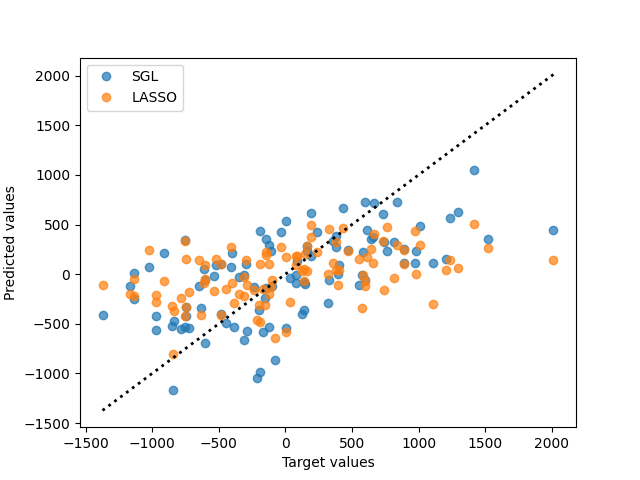
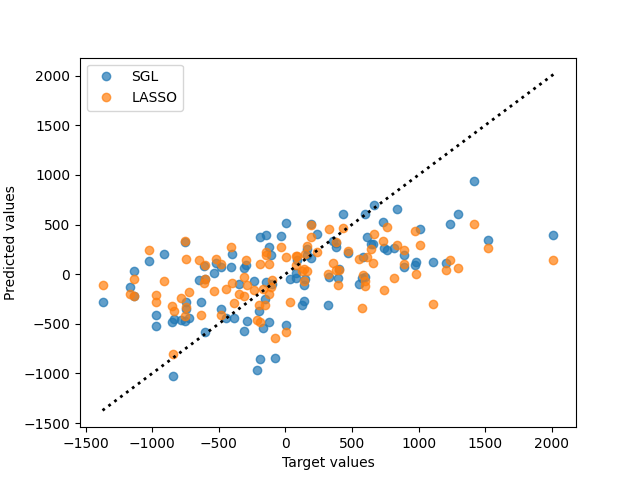
Deploying to gh-pages from  @ 82d1414503261212d46017233c9dbb04750e841c 🚀

diff --git a/searchindex.js b/searchindex.js
@@ -1,1 +1,1 @@
-Search.setIndex({docnames:["api","auto_examples/compare_group_lasso_performance","auto_examples/index","auto_examples/plot_classifier","auto_examples/plot_regressor","auto_examples/sg_execution_times","contributing","faq","getting_help","index","install"],envversion:{"sphinx.domains.c":2,"sphinx.domains.changeset":1,"sphinx.domains.citation":1,"sphinx.domains.cpp":3,"sphinx.domains.index":1,"sphinx.domains.javascript":2,"sphinx.domains.math":2,"sphinx.domains.python":2,"sphinx.domains.rst":2,"sphinx.domains.std":2,"sphinx.ext.intersphinx":1,"sphinx.ext.viewcode":1,sphinx:56},filenames:["api.rst","auto_examples/compare_group_lasso_performance.rst","auto_examples/index.rst","auto_examples/plot_classifier.rst","auto_examples/plot_regressor.rst","auto_examples/sg_execution_times.rst","contributing.rst","faq.rst","getting_help.rst","index.rst","install.rst"],objects:{"groupyr.datasets":{make_group_classification:[0,1,1,""],make_group_regression:[0,1,1,""]},groupyr:{LogisticSGL:[0,0,1,""],LogisticSGLCV:[0,0,1,""],SGL:[0,0,1,""],SGLCV:[0,0,1,""]}},objnames:{"0":["py","class","Python class"],"1":["py","function","Python function"]},objtypes:{"0":"py:class","1":"py:function"},terms:{"000":[1,5],"001":0,"0x7f47cd2a4250":4,"100":[0,1,3],"1000":[0,1],"10618600":0,"108":9,"1080":0,"122":9,"1283339":9,"150":1,"170":4,"1729":[3,4],"194":4,"1rf1mh121868":9,"200":[1,3],"2003":0,"201":3,"2011":9,"2012":0,"2013":9,"2020":9,"203":3,"205":3,"208":3,"209":3,"211":3,"212":3,"214":3,"217":3,"231":[0,9],"240":3,"243":3,"244":3,"245":[0,3,9],"246":3,"250":1,"251":3,"252":3,"256":3,"257":3,"259":3,"261":3,"262":3,"264":3,"267":3,"271":3,"272":3,"274":3,"276":3,"277":3,"279":3,"2825":9,"2830":9,"297":4,"325":4,"352":4,"388":5,"400":[1,4],"446":4,"459":4,"477":4,"500":4,"5281":9,"547":4,"576":4,"600":4,"601":[3,5],"610":4,"681250":0,"683":4,"786":[4,5],"boolean":0,"case":0,"class":0,"default":[0,4,9],"float":0,"function":0,"import":[1,2,3,4],"int":[0,1],"new":[7,10],"public":9,"return":0,"true":[0,1,3,4],"try":[0,7],"while":0,And:9,For:[0,9],The:[0,3,4,7,10],There:7,These:[0,2,7],Use:0,__init__:0,_split:4,about:[0,7,8],abov:[9,10],accept:9,accuracy_scor:0,actual:0,adapt:0,add:0,added:0,addit:[1,9],address:7,aforement:7,after:0,alfr:9,algorithm:0,align:0,all:[0,2,8,9,10],allow:[7,8],along:[0,9],alpha:[0,1,4,9],alpha_:0,alpha_max:0,alpha_min:0,alphas_:0,also:[0,6,7,9],altern:[0,10],amount:0,ani:[0,8],anoth:7,append:1,appli:0,appreci:9,approach:9,appropri:[0,6],arang:3,arbitrari:0,ariel:9,around:0,arrai:[0,1,9],arriv:9,ask:8,assign:[0,9],associ:9,attempt:9,attribut:0,auto:1,auto_exampl:5,auto_examples_jupyt:2,auto_examples_python:2,automat:[0,9],balanc:0,base:[7,9],bay:[0,4,9],bayes_optimizer_:0,bayesian:0,bayessearchcv:[0,7],bbox_inch:1,becaus:[0,2,9],befor:[0,8],behavior:9,belong:[0,9],benchmark:0,best:[0,3,9],beta:9,better:7,betti:9,between:[0,9],bia:0,bibtex:9,black:[3,4],bool:0,borrow:9,both:[7,9],brain:9,brows:8,bug:8,built:[0,7],buitnick:9,calcul:0,call:0,callabl:0,can:[0,2,8,9,10],canon:0,capabl:0,center:0,character:9,choic:0,chosen:[0,2],chosen_features_:3,citat:9,class_sep:0,classes_:0,classif:0,classifi:0,click:[1,3,4],clone:10,close:0,cluster:0,code:[1,2,3,4,7,10],coef:[0,1,3,4],coef_:[0,3],coeffici:[0,3,9],collabor:6,color:4,column:9,com:10,combin:[0,9],compar:[2,3,4,7],compare_group_lasso_perform:[1,5],comparison:[2,5],compat:[0,9],compliant:0,complic:9,compos:0,composit:9,compris:0,compromis:0,comput:[0,9],concaten:1,consequ:0,conserv:0,consid:0,constant:0,construct:0,contain:0,context:0,contigu:0,contrast:0,contribut:10,control:9,converg:0,copi:0,copt:[0,9,10],copy_x:0,cost:0,covari:[0,2,7,9],cpu:0,creat:[0,7],credit:6,criterion:0,cross:[7,9],current:9,data:[0,2,4,8,9],dataset:[1,3,4],debug:0,decis:0,defin:[1,9],demonstr:2,depend:0,descent:0,describ:9,design:[0,7,9],detail:[6,9],determin:[0,9],develop:[6,9],deviat:0,did:7,differ:[0,9],difficult:9,dimens:0,dimension:[0,9],distribut:0,divid:0,document:[0,7],doe:[0,7],doi:[0,9],done:9,download:[1,2,3,4],drawn:0,duplic:0,dure:[0,9],each:0,easier:0,ecml:9,ecosystem:0,effect:[0,4],effective_rank:0,effici:[0,9],either:[0,9,10],elasticnet:[0,9],elasticnetcv:9,element:0,ell:9,els:0,encod:0,encourag:[0,7],entri:[0,9],enumer:1,eps:[0,3],equal:0,error:[0,4],escienc:9,estim:[2,3,4,7,9],ethic:8,evalu:[0,9],even:9,examin:8,exampl:[0,1,3,4,10],exce:0,exchang:0,execut:[5,7],exhaust:9,exist:8,expect:0,experi:[0,9],explain:0,face:8,facilit:9,factor:0,fals:[0,4],familiar:[0,9],far:9,faster:7,featur:[0,1,2,3,9,10],features_per_group:0,feedback:7,fewer:[0,9],fig:1,figsiz:1,file:[5,7],find:[0,7,9],fit:[0,1,3,4,9],fit_intercept:0,fix:0,flag:0,flip:9,flip_i:0,fold:0,fontsiz:1,format:4,formula:0,forth:7,found:7,foundat:9,frac:9,fraction:0,friedman:[0,9],frobenius_lipschitz:1,from:[0,1,3,4,6,9,10],full:[1,3,4,9],fulli:0,further:[0,10],futur:7,futurewarn:4,galleri:[1,2,3,4,9,10],gaussian:0,gener:[1,2,3,4],get:[7,9],giant:0,git:10,github:[8,10],give:[0,9],gl_group:1,gl_time:1,global:[1,9],glossari:0,good:[0,7],gordon:9,gpr:[1,4],gpr_time:1,gradient:0,grant:9,graphic:[0,9],green:3,grid:[0,7,9],gridsearchcv:9,ground:[2,3,4],group:[2,5,7],group_lasso:[1,7],group_length:0,group_reg:1,group_siz:1,grouplasso:1,groupyr:[0,2,3,4,5,7,10],groupyr_speedup:1,grp:1,guess:9,guid:[0,6,9,10],guidelin:10,guyon:0,happen:0,happi:7,harder:0,has:[0,4,7],hasti:[0,9],hat:9,have:[0,7],heavili:9,help:7,here:[0,1,3,4,6,7,8,9],high:[4,9],highlight:3,hope:7,hostedtoolcach:4,hot:0,how:[2,7,8,10],howev:[7,9],http:10,hyper:0,hypercub:0,hyperparamet:[0,9],idx:[1,3],ignor:0,imag:9,implement:9,impor:3,includ:[0,7,10],include_solver_trac:0,increas:0,independ:0,index:3,indic:[0,3,9],infer:0,inform:[0,3,7,8,9,10],initi:[0,9],input:0,instal:[1,8],instanc:0,instanti:9,instead:0,institut:9,instruct:9,integ:0,intend:[0,9],intercept:0,intercept_:0,interdepend:0,introduc:0,introductori:9,ipynb:[1,3,4],isn:7,issu:[7,8],iter:0,its:[4,9,10],jerom:0,joblib:0,join:1,journal:[0,9],jupyt:[1,2,3,4],just:0,kei:9,keyword:9,kfold:[0,4],know:[2,8],known:0,l1_ratio:[0,1,3,4,9],l1_ratio_:0,l1_reg:1,label:[0,3,4],lambda:9,languag:9,larger:0,lasso:[2,5,7],lassocv:4,last:0,latest:9,learn:[0,7,9,10],leav:[4,7],legend:[3,4],len:[0,1],length:[0,9],less:10,let:8,level:4,lib:4,librari:[7,9],licens:[6,9],lightn:7,like:[0,10],linear:[0,9],linear_model:4,linearli:0,list:[0,7,9],loc:3,locat:0,log:0,logist:[0,2,5],logistic_sgl_path:0,logisticregress:9,logisticregressioncv:9,logisticsgl:0,logisticsglcv:[0,3],logo:9,look:[0,9],love:6,machin:9,madelon:0,mai:[0,10],maintain:7,make:[0,8,9],make_blob:0,make_classif:0,make_group_classif:[0,3],make_group_regress:[0,1,4],make_multilabel_classif:0,make_regress:0,mani:7,marker:[3,4],mathbf:9,matplotlib:[1,3,4],matrix:[0,9],max:4,max_alpha:0,max_it:[0,1],max_val:4,maximum:0,mean:[0,6],mean_squared_error:4,mec:3,membership:0,method:[0,7,10],metric:[0,4],mew:3,mfc:3,might:8,mild:0,min:4,min_:9,min_val:4,mine:9,minimum:0,minumum:0,minut:[1,3,4],mixtur:9,model:[0,1,2,3,4,7,9],model_select:[0,1,4],moor:9,more:[0,6,9],most:7,multilabel:0,multipl:0,multipli:0,must:9,n_alpha:[0,3],n_bayes_it:[0,4],n_bayes_point:0,n_class:[0,3],n_clusters_per_class:0,n_featur:[0,1,3],n_features_per_group:[0,1,3,4],n_fold:0,n_group:[0,1,3,4],n_inform:0,n_informative_group:[0,1,3,4],n_informative_per_group:[0,1,3,4],n_iter:1,n_iter_:0,n_job:0,n_l1_ratio:0,n_redund:0,n_redundant_per_group:[0,3],n_repeat:0,n_repeated_per_group:[0,3],n_sampl:[0,1,3,4],n_target:0,ndarrai:0,necessari:9,need:[1,8,9],next:10,nimh:9,nine:0,nip:0,noah:0,nois:[0,1,4],non:[0,3],none:[0,3,4],norm:0,normal:[0,9],note:0,notebook:[1,2,3,4],nsgl:4,number:[0,1,9],numpi:[0,1,3,4,9,10],object:[0,4],off:0,offer:9,often:8,one:[0,7,9],onli:[0,9],open:6,oper:8,opt:4,optim:[0,7,9,10],option:0,order:0,other:[0,7],our:[6,7,8,9],out:[0,3,4,7],outperform:9,output:0,outsid:6,over:0,overal:0,overlap:0,overwritten:0,own:7,packag:[1,4,7],page:7,parallel:[0,9],parallel_backend:0,paramet:[0,9],partit:0,pass:0,path:[0,9],pdf:1,pedregosa:9,penal:[0,2,7,9],penalti:[0,7,9],per:0,perform:[2,4,5],pertin:8,pgd:0,pip:[1,10],pkdd:9,place:0,pleas:[0,7,8,9],plot:[1,3,4],plot_classifi:[3,5],plot_regressor:[4,5],plt:[1,3,4],point:0,polytop:0,posit:0,possibl:0,post:8,pre:9,predefin:9,predict:[0,4,9],predictor:0,preprocess:0,previou:[0,9],previous:9,primari:0,print:[3,4],prior:0,problem:[0,1,2,7,9],procedur:8,processor:0,produc:0,project:[6,9],promot:9,proport:0,provid:[0,8,9],proxim:0,put:0,pypi:10,pyplot:[1,3,4],python3:4,python:[1,2,3,4,7,10],qualiti:0,r2_score:4,rais:4,randal:9,random:[0,9],random_st:[0,1,3,4],randomli:0,randomst:0,ratio:1,reach:0,recommend:10,redund:0,regress:[0,2,3,7,9],regressor:0,regular:[0,9],relat:9,relationship:9,reli:9,remain:0,repeat:0,repositori:[8,10],reproduc:0,requir:10,research:[6,7,9],reshap:1,result:[0,4],reus:0,richford:10,rmse:4,robert:0,rokem:9,root:0,routin:0,rudimentari:[2,5],run:[0,1,3,4,8],runtim:0,same:[0,9],sampl:[0,8],satisfi:9,savefig:1,scale:[0,3],scale_l2_bi:0,scale_reg:1,scientif:9,scikit:[0,9,10],scipi:10,scope:7,score:0,scorer:0,scoring_path_:0,script:[1,3,4],search:[0,7,9],second:[1,3,4],see:[0,6,7,9,10],seed:0,select:[0,9],send:8,sequenti:[7,9],set:[0,4,9],set_titl:1,set_xlabel:1,set_ylabel:1,sgl:[0,1,4,9],sgl_path:0,sglcv:[0,4],shape:[0,3],share:[8,9],shift:0,should:[0,4,9],show:3,shuffl:[0,1,4],side:0,signal:[2,5],signatur:0,silhouett:9,similar:7,simon:[0,9],simplifi:0,simul:[3,4],sinc:4,singular:0,site:4,size:[0,1],sklearn:[0,1,4],skopt:0,sloan:9,small:8,smbo:9,softwar:[6,8,9],solut:[0,9],solv:[0,2],solver:[0,9],some:[0,7],sourc:[0,1,2,3,4,6,10],spars:[2,5],sparsiti:[0,4,9],specifi:[0,7,9],speedup:1,sphinx:[1,2,3,4],split:0,splitter:0,spread:0,sqrt:[4,9],squar:0,stabl:10,stack:0,standard:0,standardscal:0,start:[0,9],statist:[0,7,9],std:0,stop:0,strategi:[0,9],stratifiedkfold:0,strength:[0,9],string:0,strong:0,studi:8,submatrix:9,subplot:1,subspac:0,subtract:0,suit:7,sum:0,sum_:9,supervis:9,support:9,suppress:0,suppress_solver_warn:0,supress_warn:1,sure:8,syntact:9,synthet:[0,2],system:8,target:[4,9],task:0,techniqu:0,templat:9,term:0,test:[0,4],test_siz:[1,4],than:[0,9],thei:0,them:6,therefor:9,thi:[0,1,4,6,8,9,10],three:0,through:9,tibshirani:[0,9],tight:1,time:[0,1,3,4,7],timeit:1,titl:3,tol:[0,1,3],toler:0,tool:7,total:[0,1,3,4,5,9],tqdm:[1,10],trade:0,train:[0,4],train_test_split:[1,4],transform:0,trevor:0,trivial:0,truth:[2,3,4],tune:0,tuning_strategi:[0,4,9],type:0,uniformli:0,univers:9,unless:0,unrel:0,unshuffl:0,unsupervis:7,use:[0,2,6,9,10],used:[0,2,9],useful:[0,7],useful_indic:[0,3],useless:0,user:[0,7,9,10],uses:0,using:[0,1,7,9,10],usual:9,valid:[7,9],valu:[0,4,9],vari:0,variabl:[0,9],variant:0,variou:[0,1],vector:[0,9],verbos:0,version:[0,8],vertic:0,via:0,vol:0,wai:10,want:[0,7],warm:[0,9],warm_start:0,warn:0,washington:9,weight:0,welcom:6,well:[7,8,9],what:8,when:0,where:[0,3,9],whether:0,which:[0,9],whose:0,why:7,wise:[0,9],wish:0,within:0,without:9,work:7,workflow:9,workshop:9,would:[0,7,9,10],written:6,x64:4,x_test:[1,4],x_train:[1,4],xlabel:[3,4],y_test:[1,4],y_train:[1,4],yield:[0,9],ylabel:[3,4],you:[0,1,4,6,7,8,9,10],your:[7,8],zenodo:9,zero:[0,3],zip:2},titles:["API Reference","Rudimentary performance comparison of groupyr and group-lasso","Examples","Logistic Sparse Group Lasso for grouped sparse signals","Sparse Group Lasso for grouped sparse signals","Computation times","Contributing to <em>groupyr</em>","Frequently Asked Questions","Getting help using <em>groupyr</em>","<em>Groupyr</em>: Sparse Group Lasso in Python","Installation"],titleterms:{The:9,acknowledg:9,api:[0,9],ask:7,cite:9,comparison:1,comput:5,contribut:6,cross:0,dataset:0,depend:10,develop:10,document:9,estim:0,exampl:[2,9],frequent:7,gener:0,get:8,group:[0,1,3,4,9],groupyr:[1,6,8,9],help:8,instal:[9,10],lasso:[0,1,3,4,9],logist:3,perform:1,python:9,question:7,refer:[0,9],releas:10,rudimentari:1,signal:[3,4],spars:[0,3,4,9],time:5,usag:9,using:8,valid:0,version:10}})
+Search.setIndex({docnames:["api","auto_examples/compare_group_lasso_performance","auto_examples/index","auto_examples/plot_classifier","auto_examples/plot_regressor","auto_examples/sg_execution_times","contributing","faq","getting_help","index","install"],envversion:{"sphinx.domains.c":2,"sphinx.domains.changeset":1,"sphinx.domains.citation":1,"sphinx.domains.cpp":3,"sphinx.domains.index":1,"sphinx.domains.javascript":2,"sphinx.domains.math":2,"sphinx.domains.python":2,"sphinx.domains.rst":2,"sphinx.domains.std":2,"sphinx.ext.intersphinx":1,"sphinx.ext.viewcode":1,sphinx:56},filenames:["api.rst","auto_examples/compare_group_lasso_performance.rst","auto_examples/index.rst","auto_examples/plot_classifier.rst","auto_examples/plot_regressor.rst","auto_examples/sg_execution_times.rst","contributing.rst","faq.rst","getting_help.rst","index.rst","install.rst"],objects:{"groupyr.datasets":{make_group_classification:[0,1,1,""],make_group_regression:[0,1,1,""]},groupyr:{LogisticSGL:[0,0,1,""],LogisticSGLCV:[0,0,1,""],SGL:[0,0,1,""],SGLCV:[0,0,1,""]}},objnames:{"0":["py","class","Python class"],"1":["py","function","Python function"]},objtypes:{"0":"py:class","1":"py:function"},terms:{"000":[1,5],"001":0,"0x7fd2723346d8":4,"100":[0,1,3],"1000":[0,1],"10618600":0,"108":9,"1080":0,"122":9,"1283339":9,"150":1,"170":4,"1729":[3,4],"194":4,"1rf1mh121868":9,"200":[1,3],"2003":0,"201":3,"2011":9,"2012":0,"2013":9,"2020":9,"203":3,"205":3,"208":3,"209":3,"211":3,"212":3,"214":3,"217":3,"231":[0,9],"240":3,"243":3,"244":3,"245":[0,3,9],"246":3,"250":1,"251":3,"252":3,"256":3,"257":3,"259":3,"261":3,"262":3,"264":3,"267":3,"271":3,"272":3,"274":3,"276":3,"277":3,"279":3,"2825":9,"2830":9,"297":4,"320":5,"331":4,"400":[1,4],"409":4,"420":[3,5],"446":4,"477":4,"500":4,"5281":9,"542":4,"556":4,"600":4,"610":4,"629":4,"681250":0,"683":4,"900":[4,5],"boolean":0,"case":0,"class":0,"default":[0,4,9],"float":0,"function":0,"import":[1,2,3,4],"int":[0,1],"new":[7,10],"public":9,"return":0,"true":[0,1,3,4],"try":[0,7],"while":0,And:9,For:[0,9],The:[0,3,4,7,10],There:7,These:[0,2,7],Use:0,__init__:0,_split:4,about:[0,7,8],abov:[9,10],accept:9,accuracy_scor:0,actual:0,adapt:0,add:0,added:0,addit:[1,9],address:7,aforement:7,after:0,alfr:9,algorithm:0,align:0,all:[0,2,8,9,10],allow:[7,8],along:[0,9],alpha:[0,1,4,9],alpha_:0,alpha_max:0,alpha_min:0,alphas_:0,also:[0,6,7,9],altern:[0,10],amount:0,ani:[0,8],anoth:7,append:1,appli:0,appreci:9,approach:9,appropri:[0,6],arang:3,arbitrari:0,ariel:9,around:0,arrai:[0,1,9],arriv:9,ask:8,assign:[0,9],associ:9,attempt:9,attribut:0,auto:1,auto_exampl:5,auto_examples_jupyt:2,auto_examples_python:2,automat:[0,9],balanc:0,base:[7,9],bay:[0,4,9],bayes_optimizer_:0,bayesian:0,bayessearchcv:[0,7],bbox_inch:1,becaus:[0,2,9],befor:[0,8],behavior:9,belong:[0,9],benchmark:0,best:[0,3,9],beta:9,better:7,betti:9,between:[0,9],bia:0,bibtex:9,black:[3,4],bool:0,borrow:9,both:[7,9],brain:9,brows:8,bug:8,built:[0,7],buitnick:9,calcul:0,call:0,callabl:0,can:[0,2,8,9,10],canon:0,capabl:0,center:0,character:9,choic:0,chosen:[0,2],chosen_features_:3,citat:9,class_sep:0,classes_:0,classif:0,classifi:0,click:[1,3,4],clone:10,close:0,cluster:0,code:[1,2,3,4,7,10],coef:[0,1,3,4],coef_:[0,3],coeffici:[0,3,9],collabor:6,color:4,column:9,com:10,combin:[0,9],compar:[2,3,4,7],compare_group_lasso_perform:[1,5],comparison:[2,5],compat:[0,9],compliant:0,complic:9,compos:0,composit:9,compris:0,compromis:0,comput:[0,9],concaten:1,consequ:0,conserv:0,consid:0,constant:0,construct:0,contain:0,context:0,contigu:0,contrast:0,contribut:10,control:9,converg:0,copi:0,copt:[0,9,10],copy_x:0,cost:0,covari:[0,2,7,9],cpu:0,creat:[0,7],credit:6,criterion:0,cross:[7,9],current:9,data:[0,2,4,8,9],dataset:[1,3,4],debug:0,decis:0,defin:[1,9],demonstr:2,depend:0,descent:0,describ:9,design:[0,7,9],detail:[6,9],determin:[0,9],develop:[6,9],deviat:0,did:7,differ:[0,9],difficult:9,dimens:0,dimension:[0,9],distribut:0,divid:0,document:[0,7],doe:[0,7],doi:[0,9],done:9,download:[1,2,3,4],drawn:0,duplic:0,dure:[0,9],each:0,easier:0,ecml:9,ecosystem:0,effect:[0,4],effective_rank:0,effici:[0,9],either:[0,9,10],elasticnet:[0,9],elasticnetcv:9,element:0,ell:9,els:0,encod:0,encourag:[0,7],entri:[0,9],enumer:1,eps:[0,3],equal:0,error:[0,4],escienc:9,estim:[2,3,4,7,9],ethic:8,evalu:[0,9],even:9,examin:8,exampl:[0,1,3,4,10],exce:0,exchang:0,execut:[5,7],exhaust:9,exist:8,expect:0,experi:[0,9],explain:0,face:8,facilit:9,factor:0,fals:[0,4],familiar:[0,9],far:9,faster:7,featur:[0,1,2,3,9,10],features_per_group:0,feedback:7,fewer:[0,9],fig:1,figsiz:1,file:[5,7],find:[0,7,9],fit:[0,1,3,4,9],fit_intercept:0,fix:0,flag:0,flip:9,flip_i:0,fold:0,fontsiz:1,format:4,formula:0,forth:7,found:7,foundat:9,frac:9,fraction:0,friedman:[0,9],frobenius_lipschitz:1,from:[0,1,3,4,6,9,10],full:[1,3,4,9],fulli:0,further:[0,10],futur:7,futurewarn:4,galleri:[1,2,3,4,9,10],gaussian:0,gener:[1,2,3,4],get:[7,9],giant:0,git:10,github:[8,10],give:[0,9],gl_group:1,gl_time:1,global:[1,9],glossari:0,good:[0,7],gordon:9,gpr:[1,4],gpr_time:1,gradient:0,grant:9,graphic:[0,9],green:3,grid:[0,7,9],gridsearchcv:9,ground:[2,3,4],group:[2,5,7],group_lasso:[1,7],group_length:0,group_reg:1,group_siz:1,grouplasso:1,groupyr:[0,2,3,4,5,7,10],groupyr_speedup:1,grp:1,guess:9,guid:[0,6,9,10],guidelin:10,guyon:0,happen:0,happi:7,harder:0,has:[0,4,7],hasti:[0,9],hat:9,have:[0,7],heavili:9,help:7,here:[0,1,3,4,6,7,8,9],high:[4,9],highlight:3,hope:7,hostedtoolcach:4,hot:0,how:[2,7,8,10],howev:[7,9],http:10,hyper:0,hypercub:0,hyperparamet:[0,9],idx:[1,3],ignor:0,imag:9,implement:9,impor:3,includ:[0,7,10],include_solver_trac:0,increas:0,independ:0,index:3,indic:[0,3,9],infer:0,inform:[0,3,7,8,9,10],initi:[0,9],input:0,instal:[1,8],instanc:0,instanti:9,instead:0,institut:9,instruct:9,integ:0,intend:[0,9],intercept:0,intercept_:0,interdepend:0,introduc:0,introductori:9,ipynb:[1,3,4],isn:7,issu:[7,8],iter:0,its:[4,9,10],jerom:0,joblib:0,join:1,journal:[0,9],jupyt:[1,2,3,4],just:0,kei:9,keyword:9,kfold:[0,4],know:[2,8],known:0,l1_ratio:[0,1,3,4,9],l1_ratio_:0,l1_reg:1,label:[0,3,4],lambda:9,languag:9,larger:0,lasso:[2,5,7],lassocv:4,last:0,latest:9,learn:[0,7,9,10],leav:[4,7],legend:[3,4],len:[0,1],length:[0,9],less:10,let:8,level:4,lib:4,librari:[7,9],licens:[6,9],lightn:7,like:[0,10],linear:[0,9],linear_model:4,linearli:0,list:[0,7,9],loc:3,locat:0,log:0,logist:[0,2,5],logistic_sgl_path:0,logisticregress:9,logisticregressioncv:9,logisticsgl:0,logisticsglcv:[0,3],logo:9,look:[0,9],love:6,machin:9,madelon:0,mai:[0,10],maintain:7,make:[0,8,9],make_blob:0,make_classif:0,make_group_classif:[0,3],make_group_regress:[0,1,4],make_multilabel_classif:0,make_regress:0,mani:7,marker:[3,4],mathbf:9,matplotlib:[1,3,4],matrix:[0,9],max:4,max_alpha:0,max_it:[0,1],max_val:4,maximum:0,mean:[0,6],mean_squared_error:4,mec:3,membership:0,method:[0,7,10],metric:[0,4],mew:3,mfc:3,might:8,mild:0,min:4,min_:9,min_val:4,mine:9,minimum:0,minumum:0,minut:[1,3,4],mixtur:9,model:[0,1,2,3,4,7,9],model_select:[0,1,4],moor:9,more:[0,6,9],most:7,multilabel:0,multipl:0,multipli:0,must:9,n_alpha:[0,3],n_bayes_it:[0,4],n_bayes_point:0,n_class:[0,3],n_clusters_per_class:0,n_featur:[0,1,3],n_features_per_group:[0,1,3,4],n_fold:0,n_group:[0,1,3,4],n_inform:0,n_informative_group:[0,1,3,4],n_informative_per_group:[0,1,3,4],n_iter:1,n_iter_:0,n_job:0,n_l1_ratio:0,n_redund:0,n_redundant_per_group:[0,3],n_repeat:0,n_repeated_per_group:[0,3],n_sampl:[0,1,3,4],n_target:0,ndarrai:0,necessari:9,need:[1,8,9],next:10,nimh:9,nine:0,nip:0,noah:0,nois:[0,1,4],non:[0,3],none:[0,3,4],norm:0,normal:[0,9],note:0,notebook:[1,2,3,4],nsgl:4,number:[0,1,9],numpi:[0,1,3,4,9,10],object:[0,4],off:0,offer:9,often:8,one:[0,7,9],onli:[0,9],open:6,oper:8,opt:4,optim:[0,7,9,10],option:0,order:0,other:[0,7],our:[6,7,8,9],out:[0,3,4,7],outperform:9,output:0,outsid:6,over:0,overal:0,overlap:0,overwritten:0,own:7,packag:[1,4,7],page:7,parallel:[0,9],parallel_backend:0,paramet:[0,9],partit:0,pass:0,path:[0,9],pdf:1,pedregosa:9,penal:[0,2,7,9],penalti:[0,7,9],per:0,perform:[2,4,5],pertin:8,pgd:0,pip:[1,10],pkdd:9,place:0,pleas:[0,7,8,9],plot:[1,3,4],plot_classifi:[3,5],plot_regressor:[4,5],plt:[1,3,4],point:0,polytop:0,posit:0,possibl:0,post:8,pre:9,predefin:9,predict:[0,4,9],predictor:0,preprocess:0,previou:[0,9],previous:9,primari:0,print:[3,4],prior:0,problem:[0,1,2,7,9],procedur:8,processor:0,produc:0,project:[6,9],promot:9,proport:0,provid:[0,8,9],proxim:0,put:0,pypi:10,pyplot:[1,3,4],python3:4,python:[1,2,3,4,7,10],qualiti:0,r2_score:4,rais:4,randal:9,random:[0,9],random_st:[0,1,3,4],randomli:0,randomst:0,ratio:1,reach:0,recommend:10,redund:0,regress:[0,2,3,7,9],regressor:0,regular:[0,9],relat:9,relationship:9,reli:9,remain:0,repeat:0,repositori:[8,10],reproduc:0,requir:10,research:[6,7,9],reshap:1,result:[0,4],reus:0,richford:10,rmse:4,robert:0,rokem:9,root:0,routin:0,rudimentari:[2,5],run:[0,1,3,4,8],runtim:0,same:[0,9],sampl:[0,8],satisfi:9,savefig:1,scale:[0,3],scale_l2_bi:0,scale_reg:1,scientif:9,scikit:[0,9,10],scipi:10,scope:7,score:0,scorer:0,scoring_path_:0,script:[1,3,4],search:[0,7,9],second:[1,3,4],see:[0,6,7,9,10],seed:0,select:[0,9],send:8,sequenti:[7,9],set:[0,4,9],set_titl:1,set_xlabel:1,set_ylabel:1,sgl:[0,1,4,9],sgl_path:0,sglcv:[0,4],shape:[0,3],share:[8,9],shift:0,should:[0,4,9],show:3,shuffl:[0,1,4],side:0,signal:[2,5],signatur:0,silhouett:9,similar:7,simon:[0,9],simplifi:0,simul:[3,4],sinc:4,singular:0,site:4,size:[0,1],sklearn:[0,1,4],skopt:0,sloan:9,small:8,smbo:9,softwar:[6,8,9],solut:[0,9],solv:[0,2],solver:[0,9],some:[0,7],sourc:[0,1,2,3,4,6,10],spars:[2,5],sparsiti:[0,4,9],specifi:[0,7,9],speedup:1,sphinx:[1,2,3,4],split:0,splitter:0,spread:0,sqrt:[4,9],squar:0,stabl:10,stack:0,standard:0,standardscal:0,start:[0,9],statist:[0,7,9],std:0,stop:0,strategi:[0,9],stratifiedkfold:0,strength:[0,9],string:0,strong:0,studi:8,submatrix:9,subplot:1,subspac:0,subtract:0,suit:7,sum:0,sum_:9,supervis:9,support:9,suppress:0,suppress_solver_warn:0,supress_warn:1,sure:8,syntact:9,synthet:[0,2],system:8,target:[4,9],task:0,techniqu:0,templat:9,term:0,test:[0,4],test_siz:[1,4],than:[0,9],thei:0,them:6,therefor:9,thi:[0,1,4,6,8,9,10],three:0,through:9,tibshirani:[0,9],tight:1,time:[0,1,3,4,7],timeit:1,titl:3,tol:[0,1,3],toler:0,tool:7,total:[0,1,3,4,5,9],tqdm:[1,10],trade:0,train:[0,4],train_test_split:[1,4],transform:0,trevor:0,trivial:0,truth:[2,3,4],tune:0,tuning_strategi:[0,4,9],type:0,uniformli:0,univers:9,unless:0,unrel:0,unshuffl:0,unsupervis:7,use:[0,2,6,9,10],used:[0,2,9],useful:[0,7],useful_indic:[0,3],useless:0,user:[0,7,9,10],uses:0,using:[0,1,7,9,10],usual:9,valid:[7,9],valu:[0,4,9],vari:0,variabl:[0,9],variant:0,variou:[0,1],vector:[0,9],verbos:0,version:[0,8],vertic:0,via:0,vol:0,wai:10,want:[0,7],warm:[0,9],warm_start:0,warn:0,washington:9,weight:0,welcom:6,well:[7,8,9],what:8,when:0,where:[0,3,9],whether:0,which:[0,9],whose:0,why:7,wise:[0,9],wish:0,within:0,without:9,work:7,workflow:9,workshop:9,would:[0,7,9,10],written:6,x64:4,x_test:[1,4],x_train:[1,4],xlabel:[3,4],y_test:[1,4],y_train:[1,4],yield:[0,9],ylabel:[3,4],you:[0,1,4,6,7,8,9,10],your:[7,8],zenodo:9,zero:[0,3],zip:2},titles:["API Reference","Rudimentary performance comparison of groupyr and group-lasso","Examples","Logistic Sparse Group Lasso for grouped sparse signals","Sparse Group Lasso for grouped sparse signals","Computation times","Contributing to <em>groupyr</em>","Frequently Asked Questions","Getting help using <em>groupyr</em>","<em>Groupyr</em>: Sparse Group Lasso in Python","Installation"],titleterms:{The:9,acknowledg:9,api:[0,9],ask:7,cite:9,comparison:1,comput:5,contribut:6,cross:0,dataset:0,depend:10,develop:10,document:9,estim:0,exampl:[2,9],frequent:7,gener:0,get:8,group:[0,1,3,4,9],groupyr:[1,6,8,9],help:8,instal:[9,10],lasso:[0,1,3,4,9],logist:3,perform:1,python:9,question:7,refer:[0,9],releas:10,rudimentari:1,signal:[3,4],spars:[0,3,4,9],time:5,usag:9,using:8,valid:0,version:10}})

diff --git a/auto_examples/plot_regressor.html b/auto_examples/plot_regressor.html
@@ -198,19 +198,19 @@ group-level sparsity. The prediction is compared to the ground truth and to
 the results of a Lasso model.</p>
 <img alt="plot regressor" class="sphx-glr-single-img" src="../_images/sphx_glr_plot_regressor_001.png" />
 <p class="sphx-glr-script-out">Out:</p>
-<div class="sphx-glr-script-out highlight-none notranslate"><div class="highlight"><pre><span></span>/opt/hostedtoolcache/Python/3.7.9/x64/lib/python3.7/site-packages/sklearn/model_selection/_split.py:297: FutureWarning: Setting a random_state has no effect since shuffle is False. This will raise an error in 0.24. You should leave random_state to its default (None), or set shuffle=True.
+<div class="sphx-glr-script-out highlight-none notranslate"><div class="highlight"><pre><span></span>/opt/hostedtoolcache/Python/3.6.12/x64/lib/python3.6/site-packages/sklearn/model_selection/_split.py:297: FutureWarning: Setting a random_state has no effect since shuffle is False. This will raise an error in 0.24. You should leave random_state to its default (None), or set shuffle=True.
   FutureWarning
-/opt/hostedtoolcache/Python/3.7.9/x64/lib/python3.7/site-packages/sklearn/model_selection/_split.py:297: FutureWarning: Setting a random_state has no effect since shuffle is False. This will raise an error in 0.24. You should leave random_state to its default (None), or set shuffle=True.
+/opt/hostedtoolcache/Python/3.6.12/x64/lib/python3.6/site-packages/sklearn/model_selection/_split.py:297: FutureWarning: Setting a random_state has no effect since shuffle is False. This will raise an error in 0.24. You should leave random_state to its default (None), or set shuffle=True.
   FutureWarning
 Lasso performance:
 train: R^2 = 0.600, RMSE = 446.170
 test:  R^2 = 0.194, RMSE = 610.683
 
 SGL performance:
-train: R^2 = 0.576, RMSE = 459.325
-test:  R^2 = 0.352, RMSE = 547.477
+train: R^2 = 0.542, RMSE = 477.629
+test:  R^2 = 0.331, RMSE = 556.409
 
-&lt;matplotlib.legend.Legend object at 0x7f47cd2a4250&gt;
+&lt;matplotlib.legend.Legend object at 0x7fd2723346d8&gt;
 </pre></div>
 </div>
 <div class="line-block">
@@ -297,7 +297,7 @@ test:  R^2 = 0.352, RMSE = 547.477
 <a href="https://matplotlib.org/api/_as_gen/matplotlib.pyplot.legend.html#matplotlib.pyplot.legend" title="matplotlib.pyplot.legend" class="sphx-glr-backref-module-matplotlib-pyplot sphx-glr-backref-type-py-function"><span class="n">plt</span><span class="o">.</span><span class="n">legend</span></a><span class="p">()</span>
 </pre></div>
 </div>
-<p class="sphx-glr-timing"><strong>Total running time of the script:</strong> ( 1 minutes  54.786 seconds)</p>
+<p class="sphx-glr-timing"><strong>Total running time of the script:</strong> ( 2 minutes  2.900 seconds)</p>
 <div class="sphx-glr-footer class sphx-glr-footer-example docutils container" id="sphx-glr-download-auto-examples-plot-regressor-py">
 <div class="sphx-glr-download sphx-glr-download-python docutils container">
 <p><a class="reference download internal" download="" href="../_downloads/901949dfa1ed15c1c16a529b043feba7/plot_regressor.py"><code class="xref download docutils literal notranslate"><span class="pre">Download</span> <span class="pre">Python</span> <span class="pre">source</span> <span class="pre">code:</span> <span class="pre">plot_regressor.py</span></code></a></p>

diff --git a/auto_examples/sg_execution_times.html b/auto_examples/sg_execution_times.html
@@ -179,7 +179,7 @@
             
   <div class="section" id="computation-times">
 <span id="sphx-glr-auto-examples-sg-execution-times"></span><h1>Computation times<a class="headerlink" href="#computation-times" title="Permalink to this headline">¶</a></h1>
-<p><strong>03:06.388</strong> total execution time for <strong>auto_examples</strong> files:</p>
+<p><strong>03:19.320</strong> total execution time for <strong>auto_examples</strong> files:</p>
 <table class="docutils align-default">
 <colgroup>
 <col style="width: 85%" />
@@ -188,11 +188,11 @@
 </colgroup>
 <tbody>
 <tr class="row-odd"><td><p><a class="reference internal" href="plot_regressor.html#sphx-glr-auto-examples-plot-regressor-py"><span class="std std-ref">Sparse Group Lasso for grouped sparse signals</span></a> (<code class="docutils literal notranslate"><span class="pre">plot_regressor.py</span></code>)</p></td>
-<td><p>01:54.786</p></td>
+<td><p>02:02.900</p></td>
 <td><p>0.0 MB</p></td>
 </tr>
 <tr class="row-even"><td><p><a class="reference internal" href="plot_classifier.html#sphx-glr-auto-examples-plot-classifier-py"><span class="std std-ref">Logistic Sparse Group Lasso for grouped sparse signals</span></a> (<code class="docutils literal notranslate"><span class="pre">plot_classifier.py</span></code>)</p></td>
-<td><p>01:11.601</p></td>
+<td><p>01:16.420</p></td>
 <td><p>0.0 MB</p></td>
 </tr>
 <tr class="row-odd"><td><p><a class="reference internal" href="compare_group_lasso_performance.html#sphx-glr-auto-examples-compare-group-lasso-performance-py"><span class="std std-ref">Rudimentary performance comparison of groupyr and group-lasso</span></a> (<code class="docutils literal notranslate"><span class="pre">compare_group_lasso_performance.py</span></code>)</p></td>

diff --git a/auto_examples/plot_classifier.html b/auto_examples/plot_classifier.html
@@ -272,7 +272,7 @@ Indices of non-zero estimated coefs:
 <span class="nb">print</span><span class="p">(</span><a href="../api.html#groupyr.LogisticSGLCV" title="groupyr.LogisticSGLCV" class="sphx-glr-backref-module-groupyr sphx-glr-backref-type-py-class sphx-glr-backref-instance"><span class="n">model</span></a><span class="o">.</span><span class="n">chosen_features_</span><span class="p">)</span>
 </pre></div>
 </div>
-<p class="sphx-glr-timing"><strong>Total running time of the script:</strong> ( 1 minutes  11.601 seconds)</p>
+<p class="sphx-glr-timing"><strong>Total running time of the script:</strong> ( 1 minutes  16.420 seconds)</p>
 <div class="sphx-glr-footer class sphx-glr-footer-example docutils container" id="sphx-glr-download-auto-examples-plot-classifier-py">
 <div class="sphx-glr-download sphx-glr-download-python docutils container">
 <p><a class="reference download internal" download="" href="../_downloads/084669b45b226af6f637ab8457c8c5aa/plot_classifier.py"><code class="xref download docutils literal notranslate"><span class="pre">Download</span> <span class="pre">Python</span> <span class="pre">source</span> <span class="pre">code:</span> <span class="pre">plot_classifier.py</span></code></a></p>
